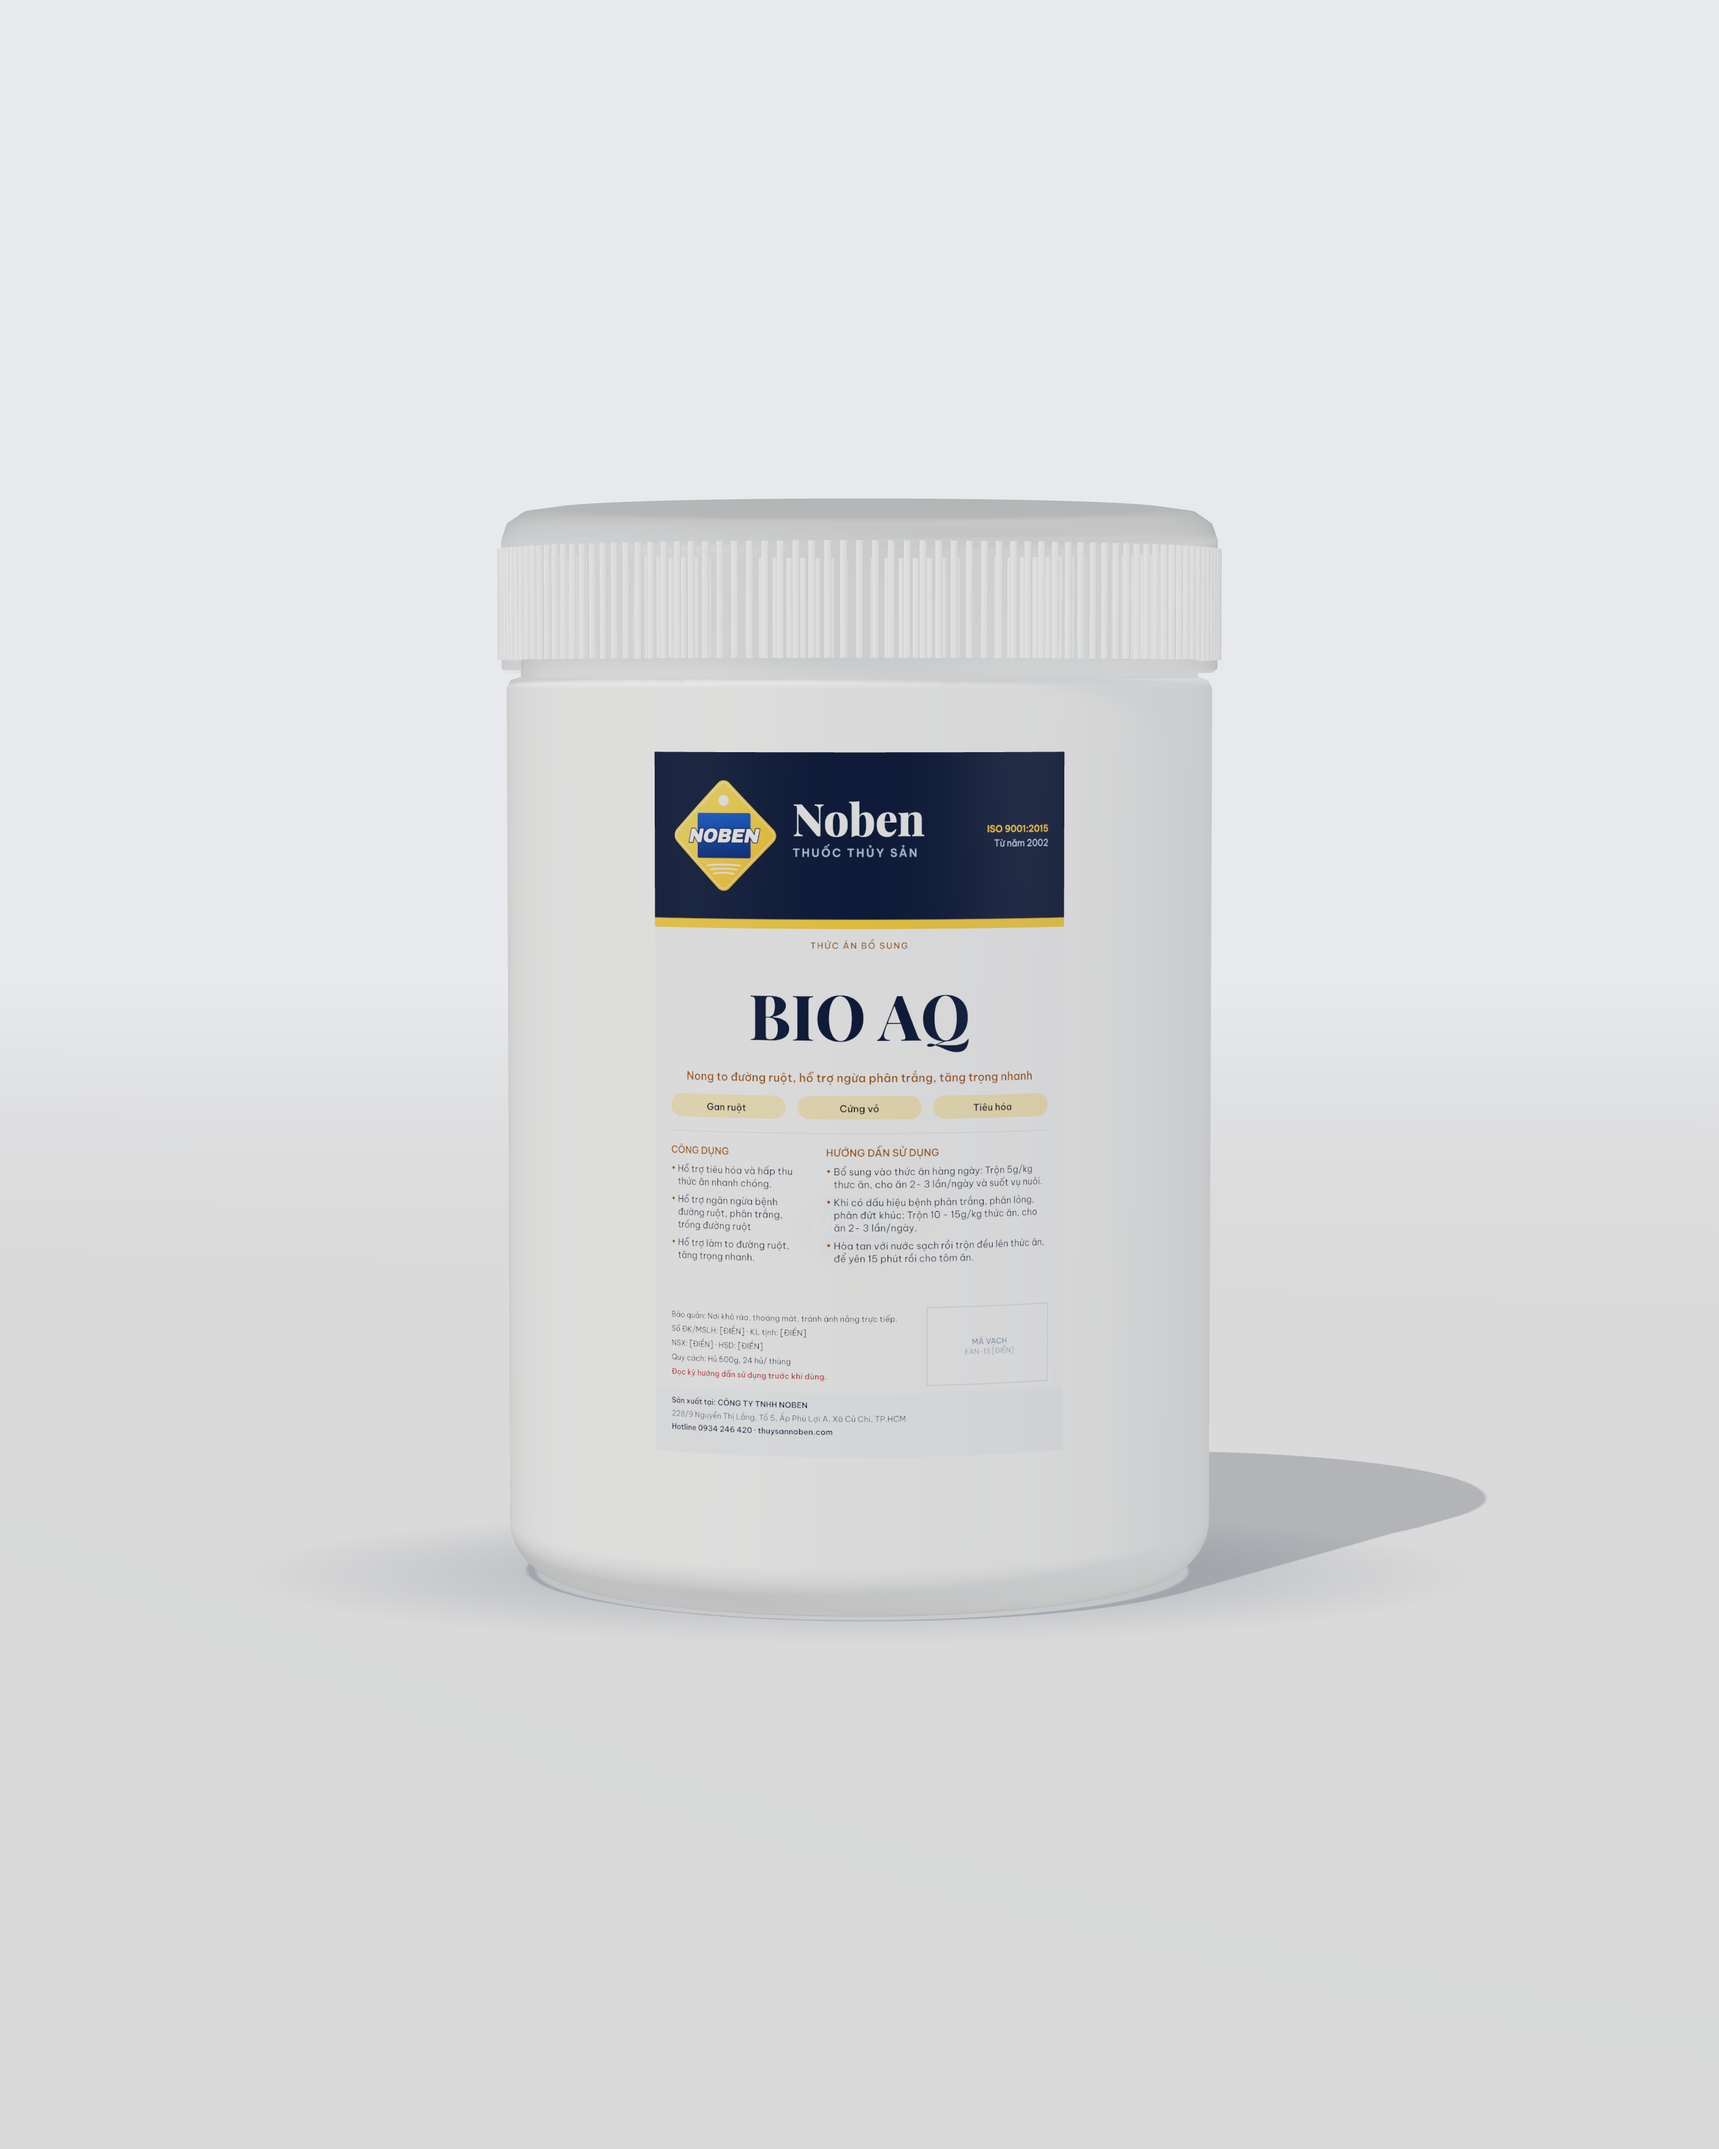
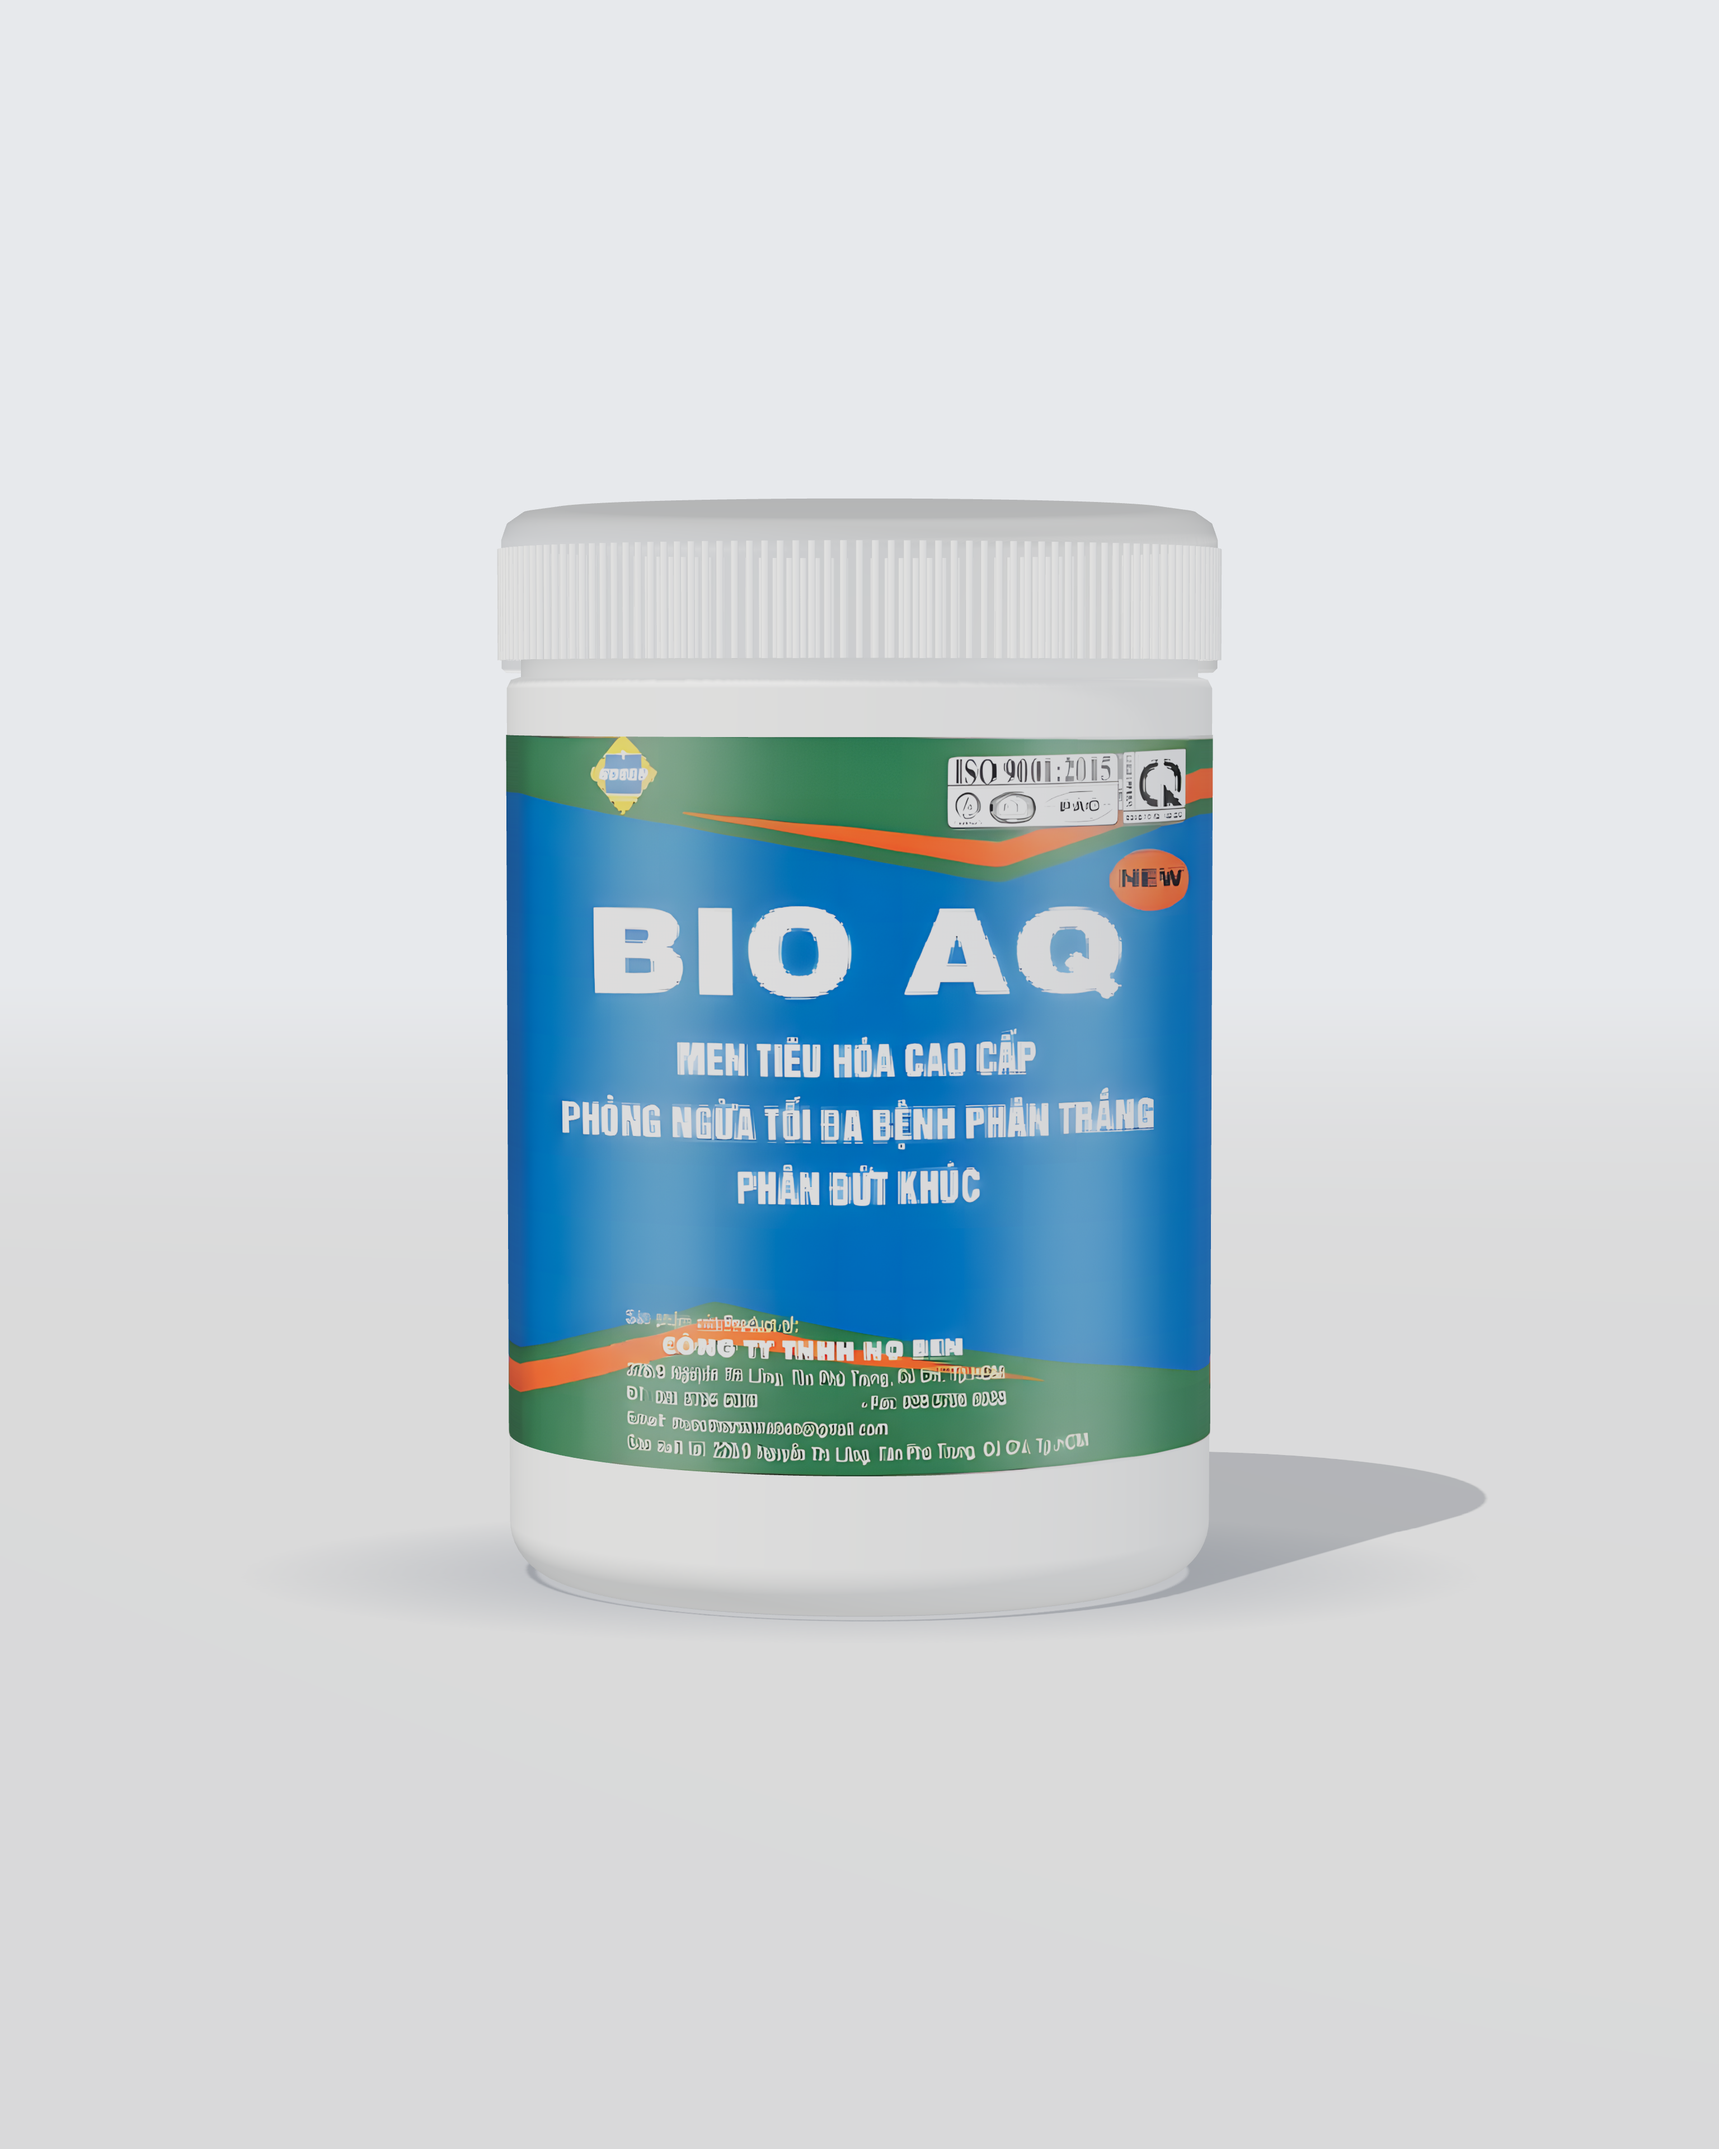
Mockup 3D 4K giữ nguyên nhãn cũ: Super Yucca, Bio AQ, Clear 12H, Mix 79
- scripts/mockup-3d-cu.js: thêm --kieu cu (mặc định): chai 500 ml màng co quấn kín, hũ in quanh thân, túi zip, bao vàng in trực tiếp; --kieu moi giữ cho nhãn Noben mới
- brand/mockup-4k: thay ảnh nhãn mới bằng ảnh nhãn cũ, thêm nhan-cu/ (nhãn cũ nắn phẳng, nâng 4K)

Claude-Session: https://claude.ai/code/session_012QLWnBR2omz1LyP8peETib

Changed region(s): [[0.2812, 0.3438, 0.7188, 0.6875]]

diff --git a/scripts/mockup-3d-cu.js b/scripts/mockup-3d-cu.js
@@ -2,7 +2,7 @@
 'use strict';
 // Đặt nhãn (PNG 4K từ scripts/mockup-nhan-moi.js, hoặc nhãn cũ từ scripts/mockup-nhan-cu.py) lên bao bì dựng 3D thật:
 // chai HDPE 1 lít, hũ nhựa 500 g, túi đứng nhôm bạc có zip 250 g, bao gối 5 kg.
-//   node scripts/mockup-3d-cu.js --dir <thư mục nhãn> --out anh.png --shot chai|hu|tui|bao|bo [--goc 0|34] [--w 3072 --h 3840]
+//   node scripts/mockup-3d-cu.js --dir <thư mục nhãn> --out anh.png --shot chai|hu|tui|bao|bo [--kieu cu|moi] [--goc 0|34] [--w 3072 --h 3840]
 // Cần: npm i three@0.149.0 --no-save (Chromium + Playwright có sẵn).
 const fs = require('fs');
 const path = require('path');
@@ -12,6 +12,7 @@ const DIR = opt('--dir', 'brand/mockup-4k/nhan');
 const OUT = opt('--out', 'mockup.png');
 const SHOT = opt('--shot', 'chai');
 const GOC = +opt('--goc', 0);
+const KIEU = opt('--kieu', 'cu');
 const W = +opt('--w', 3072), H = +opt('--h', 3840);
 const SLUG = { chai: 'super-yucca', hu: 'bio-aq', tui: 'clear-12h', bao: 'mix-79' };
 const THREE_JS = process.env.THREE_JS || [path.join(process.cwd(), 'node_modules', 'three', 'build', 'three.min.js'), path.join(__dirname, '..', 'node_modules', 'three', 'build', 'three.min.js')].find((f) => fs.existsSync(f)) || '';
@@ -20,6 +21,7 @@ if (!THREE_JS) { console.error('Thiếu three.min.js: chạy `npm i three@0.149.
 function scene() {
   /* global THREE, TEX, CFG */
   const PHI = 1.61803;
+  const CU = CFG.kieu === 'cu';   // 'cu': nhãn cũ quấn kín thân / in trực tiếp như bao bì cũ; 'moi': nhãn decal mới
   THREE.ColorManagement.legacyMode = false;
   const r = new THREE.WebGLRenderer({ antialias: true, preserveDrawingBuffer: true });
   r.setPixelRatio(1); r.setSize(CFG.W, CFG.H);
@@ -65,6 +67,16 @@ function scene() {
     m.position.y = yc; m.receiveShadow = true; g.add(m);
   }
 
+  // Nhãn quấn trụ: cung trước 144° mang ảnh nhãn, cung sau 216° chỉ là màu nền nối hai mép
+  function wrap(g, img, R, y0, y1, gloss) {
+    const half = 72 * Math.PI / 180;
+    const mk = (t, a0, len) => {
+      const m = new THREE.Mesh(new THREE.CylinderGeometry(R, R, y1 - y0, 200, 1, true, a0, len), new THREE.MeshPhysicalMaterial({ map: t, roughness: gloss ? 0.36 : 0.55, clearcoat: gloss ? 0.35 : 0.1, clearcoatRoughness: 0.35, envMapIntensity: 0.7 }));
+      m.position.y = (y0 + y1) / 2; m.receiveShadow = true; g.add(m);
+    };
+    mk(tex(img), -half, 2 * half); mk(edgeTex(img), half, 2 * Math.PI - 2 * half);
+  }
+
   const hdpe = new THREE.MeshPhysicalMaterial({ color: 0xf2f2ef, roughness: 0.46, clearcoat: 0.16, clearcoatRoughness: 0.5, sheen: 0.2, sheenRoughness: 0.8, envMapIntensity: 0.9 });
   const capMat = new THREE.MeshPhysicalMaterial({ color: 0xfafaf8, roughness: 0.4, clearcoat: 0.25, clearcoatRoughness: 0.4, envMapIntensity: 0.9 });
 
@@ -85,6 +97,23 @@ function scene() {
     return g;
   }
 
+  // ---- Chai HDPE 500 ml: Ø73 × cao 187 mm, vai tròn, cổ có gờ, nắp vặn Ø39 có khía (đo theo ảnh chai Super Yucca cũ)
+  function chaiCu(img) {
+    const g = new THREE.Group(); const R = 3.65;
+    const p = [[0, 0.12], [2.3, 0.12], [2.75, 0]]; arc(-Math.PI / 2, 0, R - 0.85, 0.85, 0.85, 12, p);
+    p.push([R, 14.1]); arc(0, Math.PI / 2, R - 1.75, 14.1, 1.75, 16, p);        // vai bo tròn
+    p.push([2.45, 15.95], [2.28, 16.25], [2.28, 16.75], [2.02, 16.82], [1.9, 17.0], [1.9, 17.4]);
+    g.add(lathe(p, 192, hdpe));
+    const cp = [[0, 1.5], [1.72, 1.5], [1.88, 1.45], [1.96, 1.32], [1.98, 1.15], [1.98, 0.05], [1.92, 0], [1.8, 0]];
+    const cap = lathe(cp, 128, capMat); cap.position.y = 17.2; g.add(cap);
+    const ring = lathe([[1.9, 0], [2.14, 0.02], [2.16, 0.26], [2.1, 0.3], [1.9, 0.3]], 128, capMat); ring.position.y = 16.86; g.add(ring);
+    const rib = new THREE.CylinderGeometry(0.075, 0.075, 1.12, 10);
+    for (let i = 0; i < 44; i++) { const a = (i / 44) * Math.PI * 2; const m = new THREE.Mesh(rib, capMat); m.position.set(Math.sin(a) * 1.985, 17.2 + 0.62, Math.cos(a) * 1.985); g.add(m); }
+    wrap(g, img, R + 0.012, 2.45, 13.55, true);                                  // màng co in kín thân
+    contact(g, 13, 10); g.userData = { h: 18.7, w: 7.3 };
+    return g;
+  }
+
   // ---- Hũ nhựa 500 g: Ø100 × cao 150 mm, nắp vặn rộng bằng thân, có khía mịn (đo theo ảnh hũ Bio AQ cũ)
   function hu(img) {
     const g = new THREE.Group(); const R = 4.96;
@@ -95,7 +124,7 @@ function scene() {
     const lid = lathe(lp, 192, capMat); lid.position.y = 12.72; g.add(lid);
     const rib = new THREE.CylinderGeometry(0.05, 0.05, 1.55, 8);
     for (let i = 0; i < 150; i++) { const a = (i / 150) * Math.PI * 2; const m = new THREE.Mesh(rib, capMat); m.position.set(Math.sin(a) * 5.035, 12.72 + 0.95, Math.cos(a) * 5.035); g.add(m); }
-    front(g, img, R + 0.012, 6.95, 9.4 * 0.618, 9.4);                        // nhãn khổ túi thu nhỏ 61,8 × 100 mm cho vừa thân hũ
+    if (CU) wrap(g, img, R + 0.012, 2.0, 11.85, false); else front(g, img, R + 0.012, 6.95, 9.4 * 0.618, 9.4);                        // nhãn khổ túi thu nhỏ 61,8 × 100 mm cho vừa thân hũ
     contact(g, 18, 13); g.userData = { h: 15, w: 10 };
     return g;
   }
@@ -138,7 +167,7 @@ function scene() {
     g.add(film(sheet((u, v) => { const [d] = depth(u, 0); return [u * Wd / 2 * (1 - 0.0225), 0.02 + 0.5 * (1 - Math.pow(2 * v - 1, 2)) * Math.min(1, d), (2 * v - 1) * (d + 0.02)]; }, -1, 1, 0.0001, 0.9999, 120, 24, true), foil));
     // nhãn decal 110 × 178 mm, mép trên cách miệng túi 43 mm
     const lm = new THREE.MeshPhysicalMaterial({ map: tex(img), roughness: 0.42, clearcoat: 0.3, clearcoatRoughness: 0.4, envMapIntensity: 0.6, polygonOffset: true, polygonOffsetFactor: -2, polygonOffsetUnits: -2 });
-    const l = film(sheet(f(1, 0.012), -0.706, 0.706, 0.109, 0.827, 200, 280, false), lm); l.castShadow = false; g.add(l);
+    const l = CU ? film(sheet(f(1, 0.012), -0.756, 0.758, 0.161, 0.738, 200, 240, false), lm) : film(sheet(f(1, 0.012), -0.706, 0.706, 0.109, 0.827, 200, 280, false), lm); l.castShadow = false; g.add(l);
     contact(g, 24, 11); g.userData = { h: Ht, w: Wd };
     return g;
   }
@@ -160,18 +189,19 @@ function scene() {
       const zig = edge ? edge * 0.13 * (2 * Math.abs(((x / 0.34) % 1 + 1) % 1 - 0.5)) : 0;   // mép răng cưa
       return [x, v * Ht + zig, sg * (d + 0.02 + eps)];
     };
-    const yel = new THREE.MeshPhysicalMaterial({ color: 0xdfe2e6, metalness: 0.9, roughness: 0.32, envMapIntensity: 1.1, side: THREE.DoubleSide });
+    const yel = CU ? new THREE.MeshPhysicalMaterial({ color: 0xe9d31c, metalness: 0.25, roughness: 0.3, clearcoat: 0.5, clearcoatRoughness: 0.3, envMapIntensity: 0.85, side: THREE.DoubleSide })   // bao cũ: màng vàng in trực tiếp
+      : new THREE.MeshPhysicalMaterial({ color: 0xdfe2e6, metalness: 0.9, roughness: 0.32, envMapIntensity: 1.1, side: THREE.DoubleSide });
     g.add(film(sheet(f(1, 0), -1, 1, 0, 1, 330, 700, false), yel));
     g.add(film(sheet(f(-1, 0), -1, 1, 0, 1, 330, 700, true), yel));
     // nhãn decal khổ túi phóng φ lần: 178 × 288 mm, giữa thân bao
     const pmat = new THREE.MeshPhysicalMaterial({ map: tex(img), roughness: 0.42, clearcoat: 0.3, clearcoatRoughness: 0.4, envMapIntensity: 0.6, polygonOffset: true, polygonOffsetFactor: -2, polygonOffsetUnits: -2 });
-    const l = film(sheet(f(1, 0.012), -0.715, 0.715, 0.218, 0.782, 300, 520, false), pmat); l.castShadow = false; g.add(l);
+    const l = CU ? film(sheet(f(1, 0.012), -1, 1, 0.097, 0.846, 300, 520, false), pmat) : film(sheet(f(1, 0.012), -0.715, 0.715, 0.218, 0.782, 300, 520, false), pmat); l.castShadow = false; g.add(l);
     const wrapG = new THREE.Group(); g.rotation.x = -0.075; g.position.y = 0.05; wrapG.add(g);
     contact(wrapG, 40, 16); wrapG.userData = { h: Ht, w: Wd };
     return wrapG;
   }
 
-  const make = { chai, hu, tui, bao };
+  const make = { chai: CU ? chaiCu : chai, hu, tui, bao };
   // đèn: key trên-trái, fill phải, rim sau
   s.add(new THREE.HemisphereLight(0xffffff, 0xcfd3d8, 0.38));
   const key = new THREE.DirectionalLight(0xfffaf4, 2.2); key.castShadow = true; key.shadow.mapSize.set(4096, 4096); key.shadow.radius = 22; key.shadow.bias = -0.0005; s.add(key); s.add(key.target);
@@ -193,7 +223,7 @@ function scene() {
     cam.position.set(4, 34, 205); cam.lookAt(-1.5, 20.5, 0); setFog(205);
   } else {
     const o = make[CFG.shot](TEX[CFG.shot]); const { h, w } = o.userData;
-    o.rotation.y = -CFG.goc * Math.PI / 180; s.add(o);
+    o.rotation.y = -CFG.goc * Math.PI / 180 * (CU && (CFG.shot === 'chai' || CFG.shot === 'hu') ? 0.62 : 1); s.add(o);   // nhãn cũ chỉ có nửa mặt trước nên chai, hũ xoay ~21°
     lights(Math.max(h, w * 1.3));
     const fov = 21; cam = new THREE.PerspectiveCamera(fov, CFG.W / CFG.H, 1, 4000);
     const frameH = Math.max(h * PHI, w * 1.5 * PHI * CFG.H / CFG.W);          // bao bì chiếm 61,8% chiều cao khung
@@ -220,7 +250,7 @@ function scene() {
     window.TEX = {};
     for (const k of Object.keys(T)) window.TEX[k] = await new Promise((ok, no) => { const i = new Image(); i.onload = () => ok(i); i.onerror = no; i.src = T[k]; });
   }, data);
-  const url = await page.evaluate(`(() => { window.CFG = ${JSON.stringify({ W, H, shot: SHOT, goc: GOC })}; return (${scene.toString()})(); })()`);
+  const url = await page.evaluate(`(() => { window.CFG = ${JSON.stringify({ W, H, shot: SHOT, goc: GOC, kieu: KIEU })}; return (${scene.toString()})(); })()`);
   fs.writeFileSync(OUT, Buffer.from(url.split(',')[1], 'base64'));
   console.log('saved', OUT, W + '×' + H);
   await browser.close();
